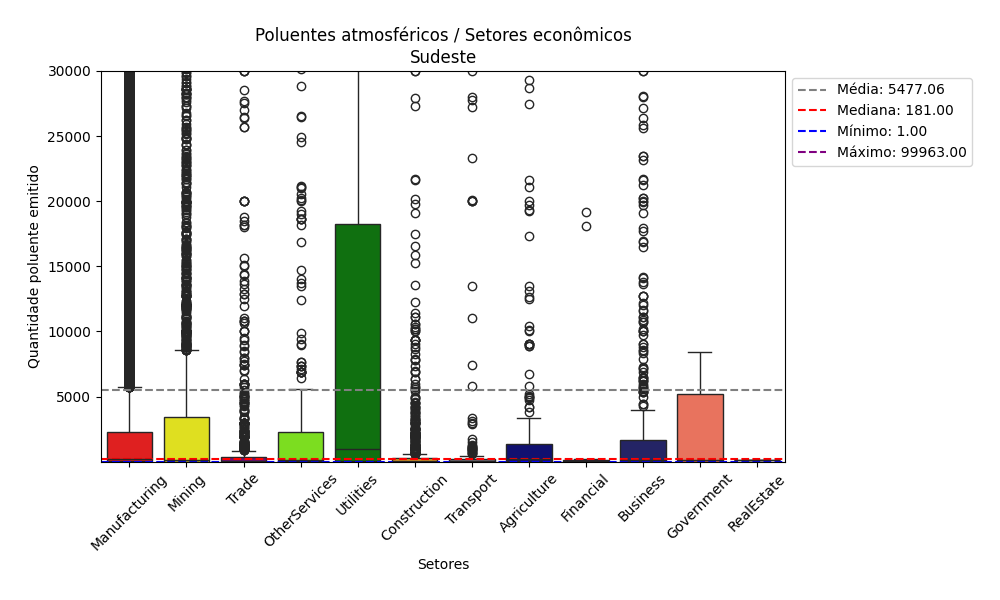
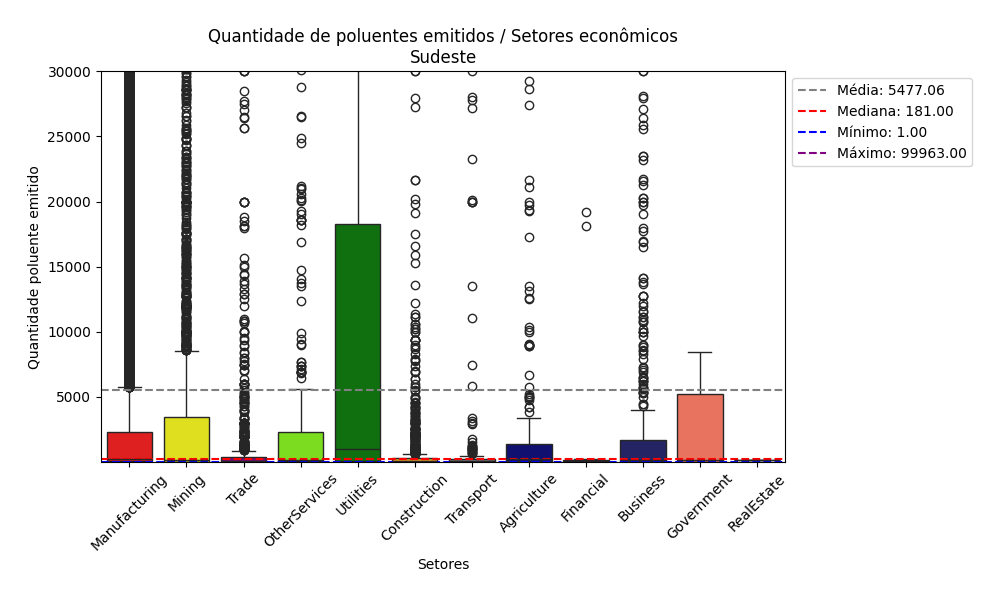
:recycle: update plots (3) :recycle:

diff --git a/filtros_grafico.py b/filtros_grafico.py
@@ -212,10 +212,14 @@ def gera_plots(data, csv_description=None):
         for region in regions:
             base = data[key][(data[key][indicador] > minimum) &
                              (data[key]['region'] == region)]
+            if indicador == 'quant_poluentes_emitidos':
+                title_base = 'Quantidade de poluentes emitidos'
+            else:
+                title_base = 'Emissão de CO2' 
             csv_description = plot_boxplot(base, y=indicador,
                         number=number, region=region,
                         ylim_superior=30000,
-                        title='Poluentes atmosféricos / Setores econômicos',
+                        title=f'{title_base} / Setores econômicos',
                         description=True, des_data=csv_description,
                         ylabel='Quantidade poluente emitido',
                         co2=indicador)
